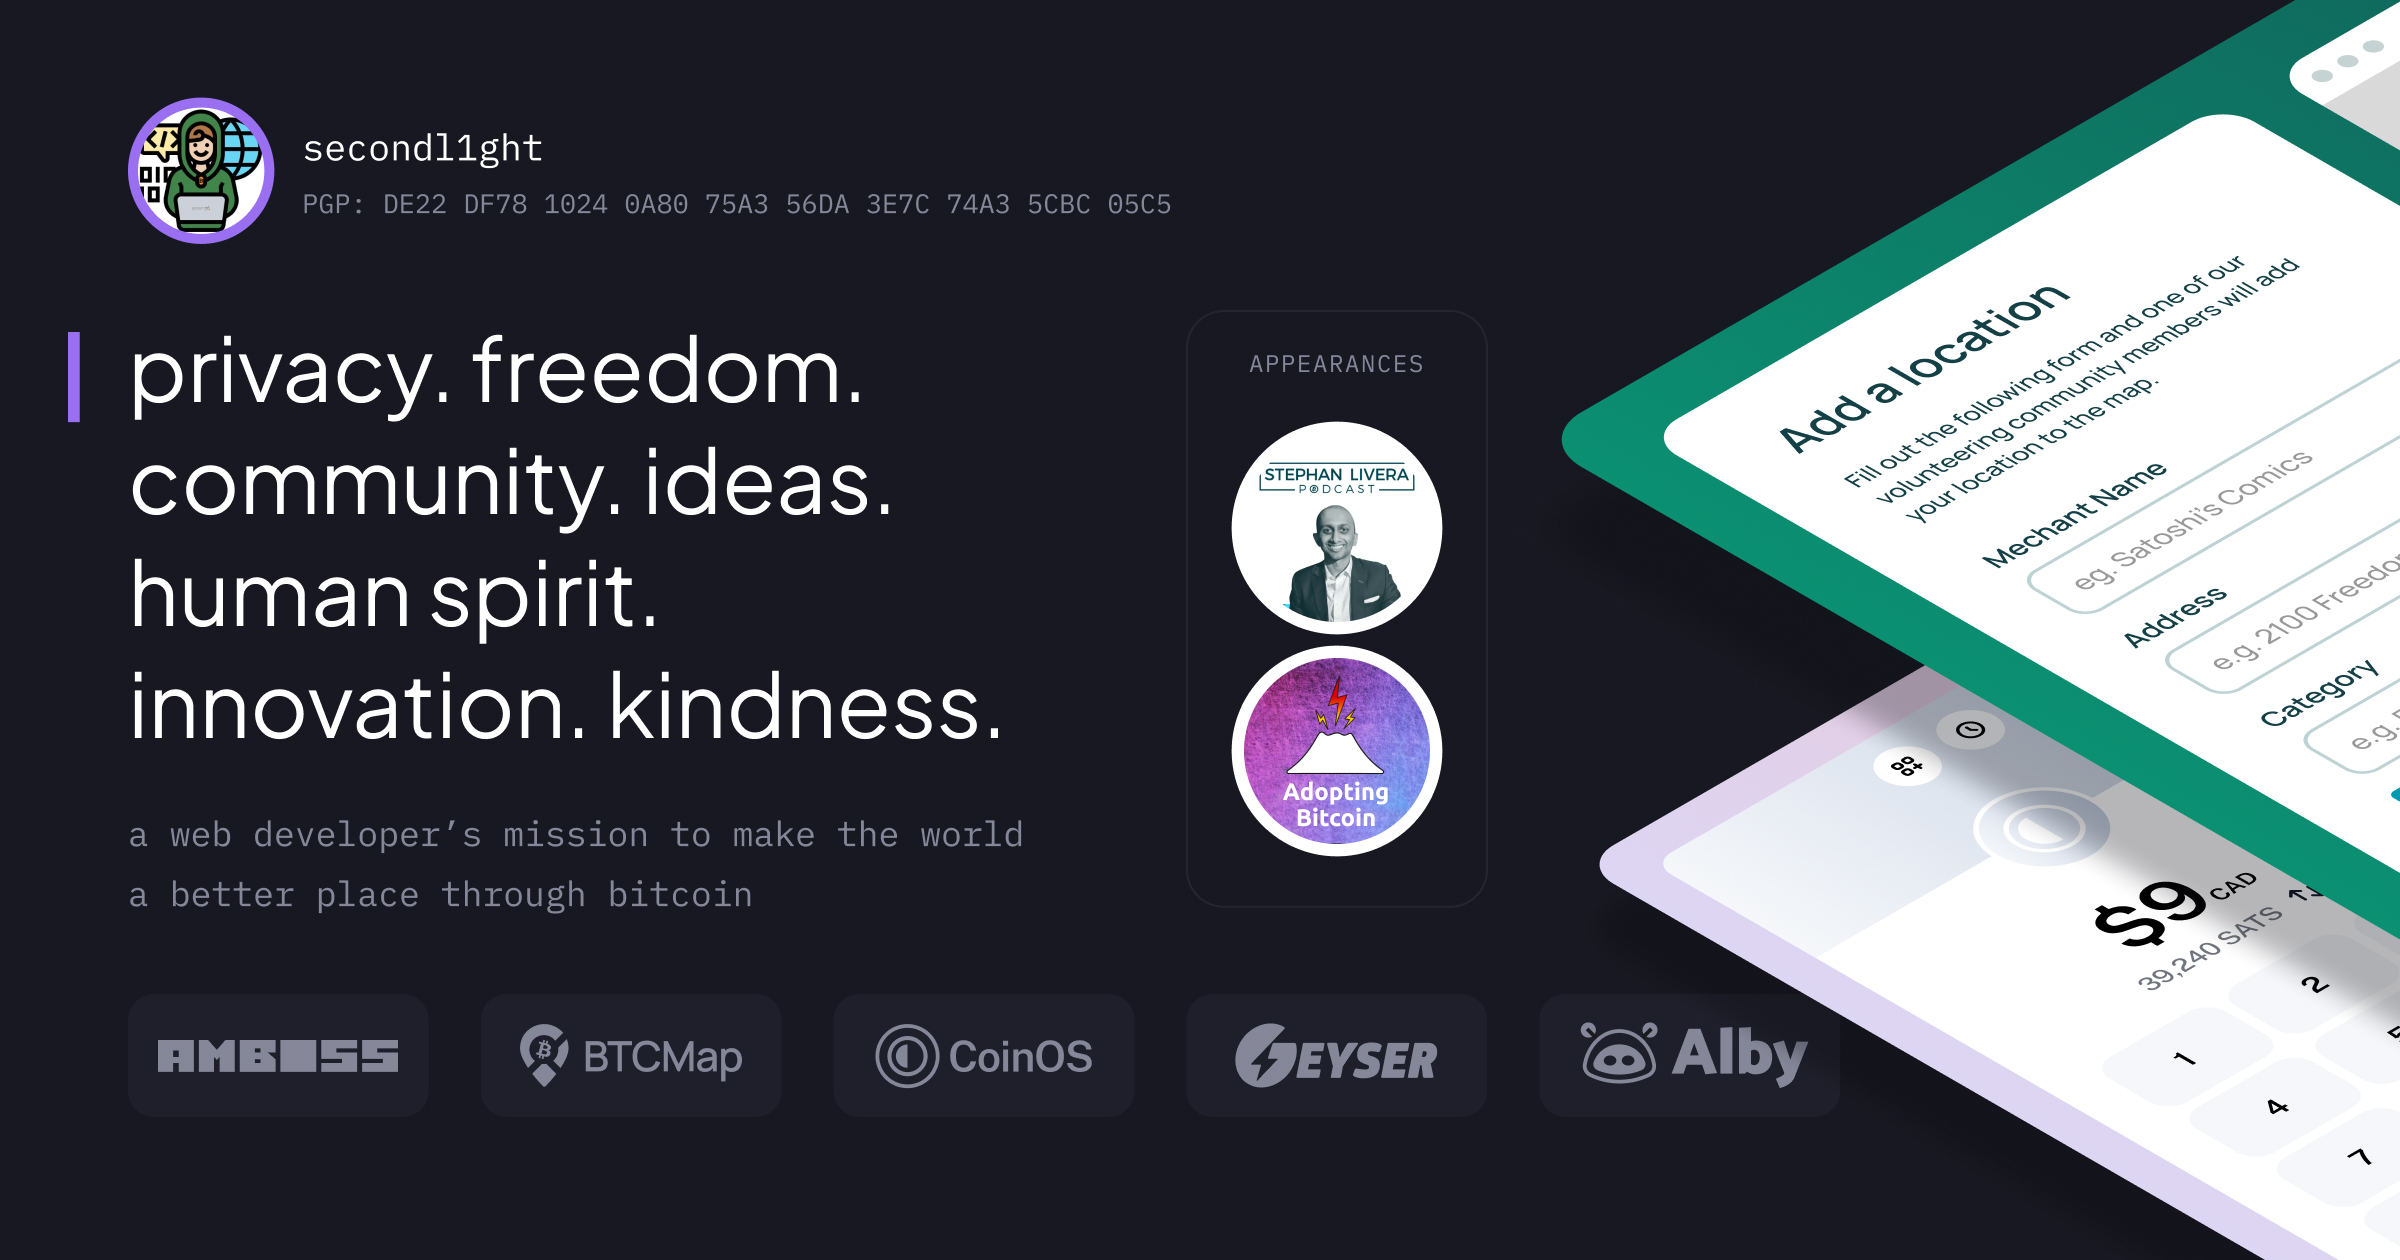
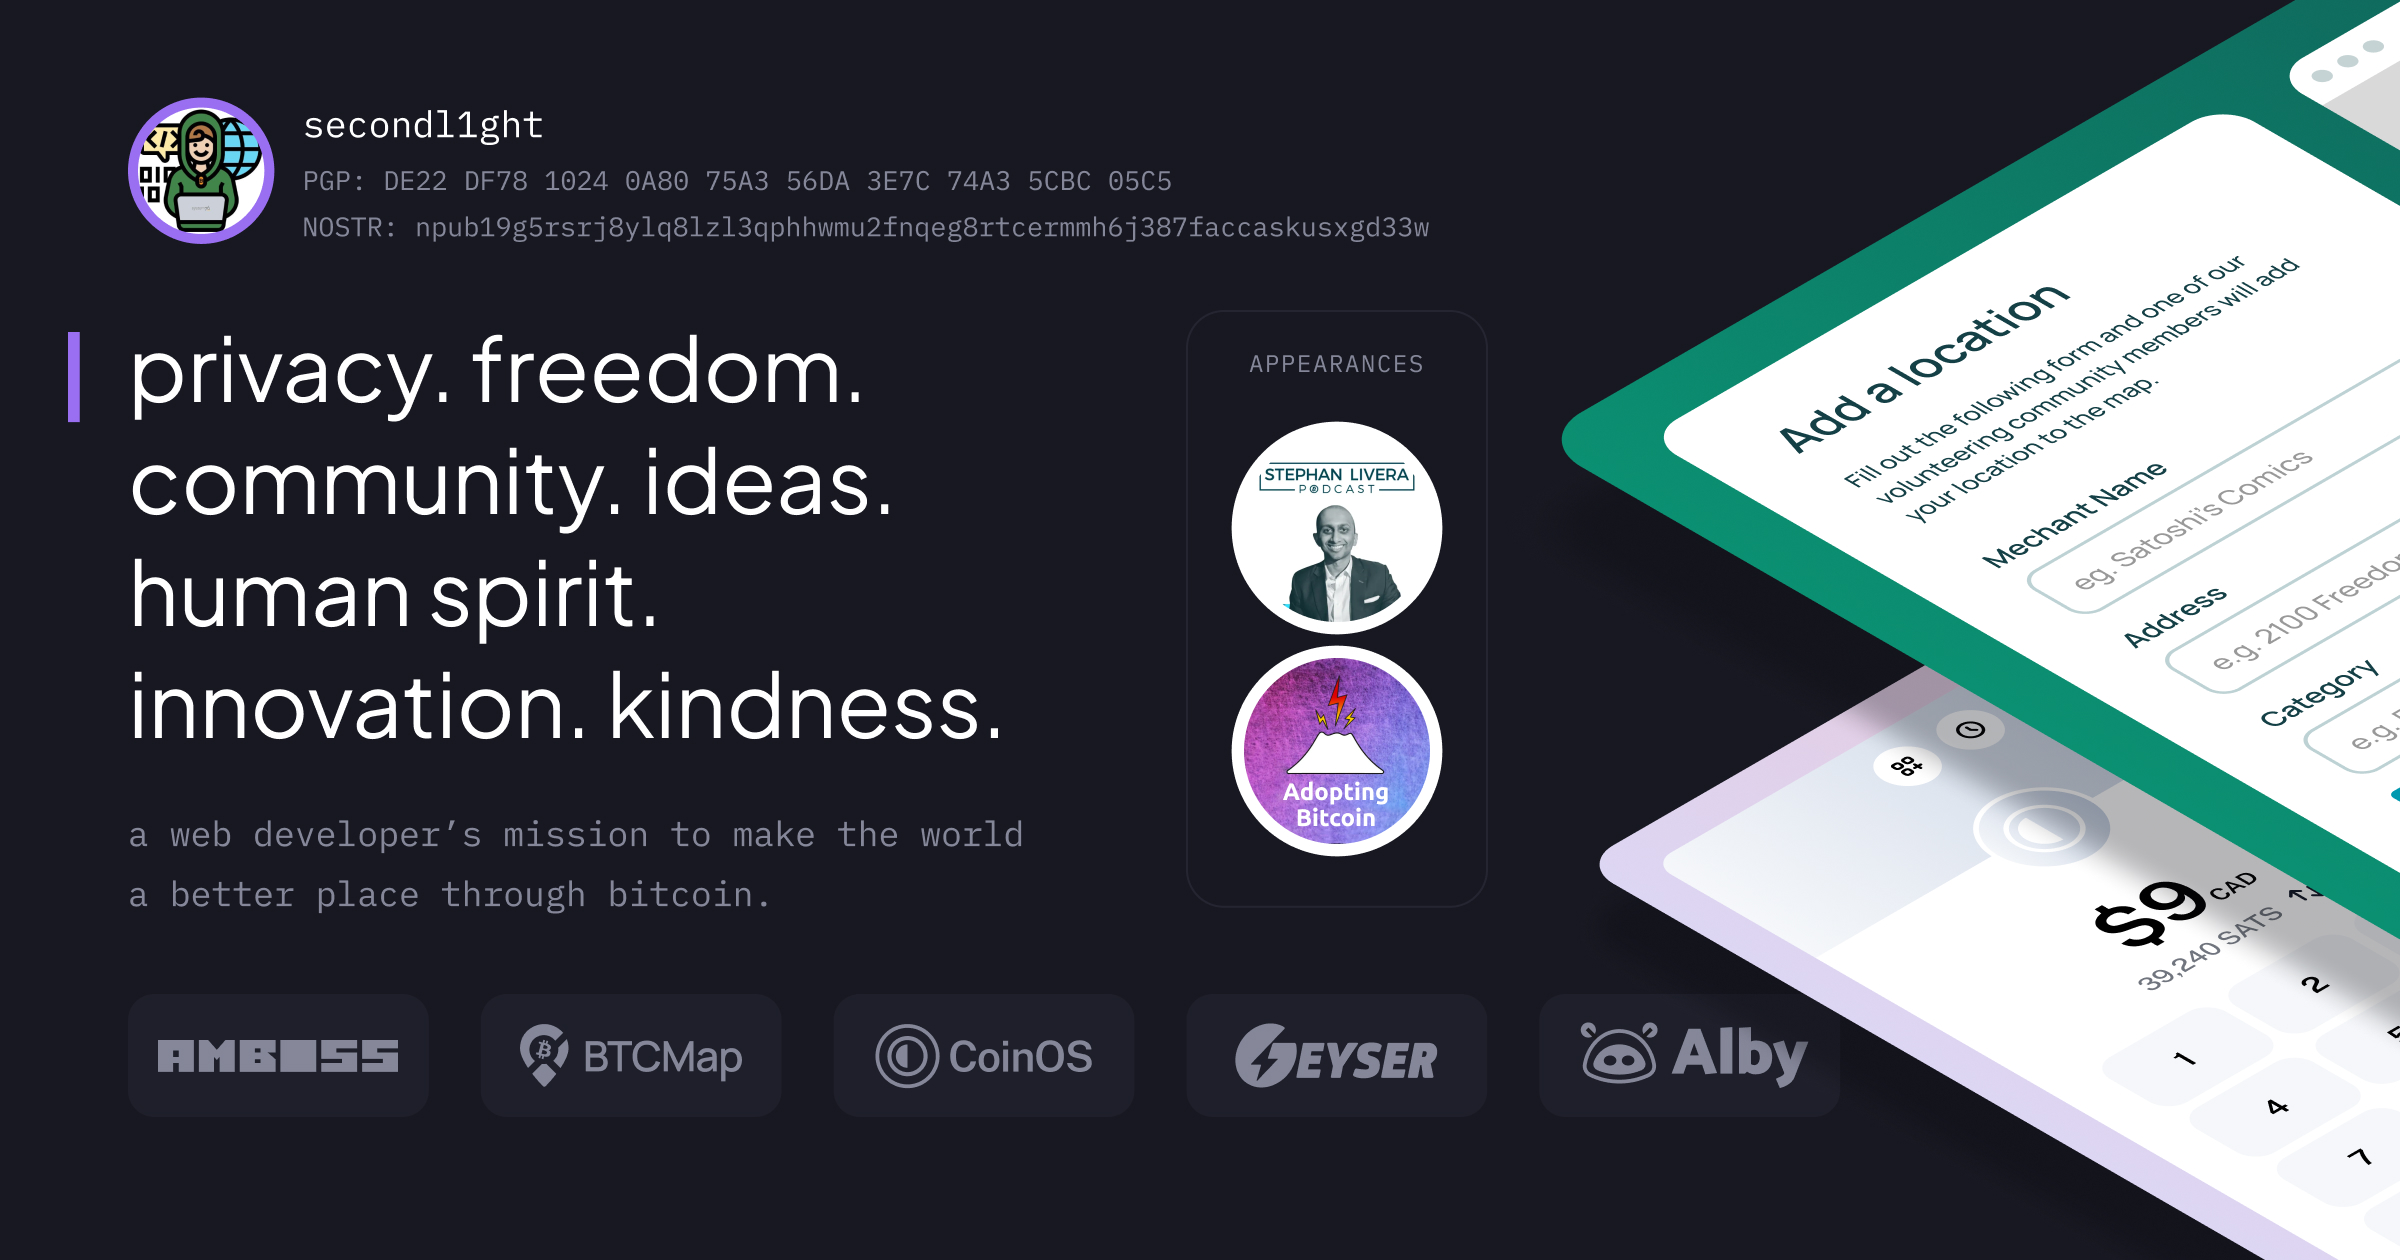
add nostr pubkey

Changed region(s): [[0.125, 0.0929, 0.5938, 0.1857]]

diff --git a/src/components/Hero.svelte b/src/components/Hero.svelte
@@ -10,6 +10,8 @@
   </h4>
   <span class="ibm text-secondary">
     PGP: DE22 DF78 1024 0A80 75A3 56DA 3E7C 74A3 5CBC 05C5
+    <br />
+    NOSTR: npub19g5rsrj8ylq8lzl3qphhwmu2fnqeg8rtcermmh6j387faccaskusxgd33w
   </span>
   <div class="jakarta text-5xl md:text-7xl lg:text-8xl text-white relative">
     <div
